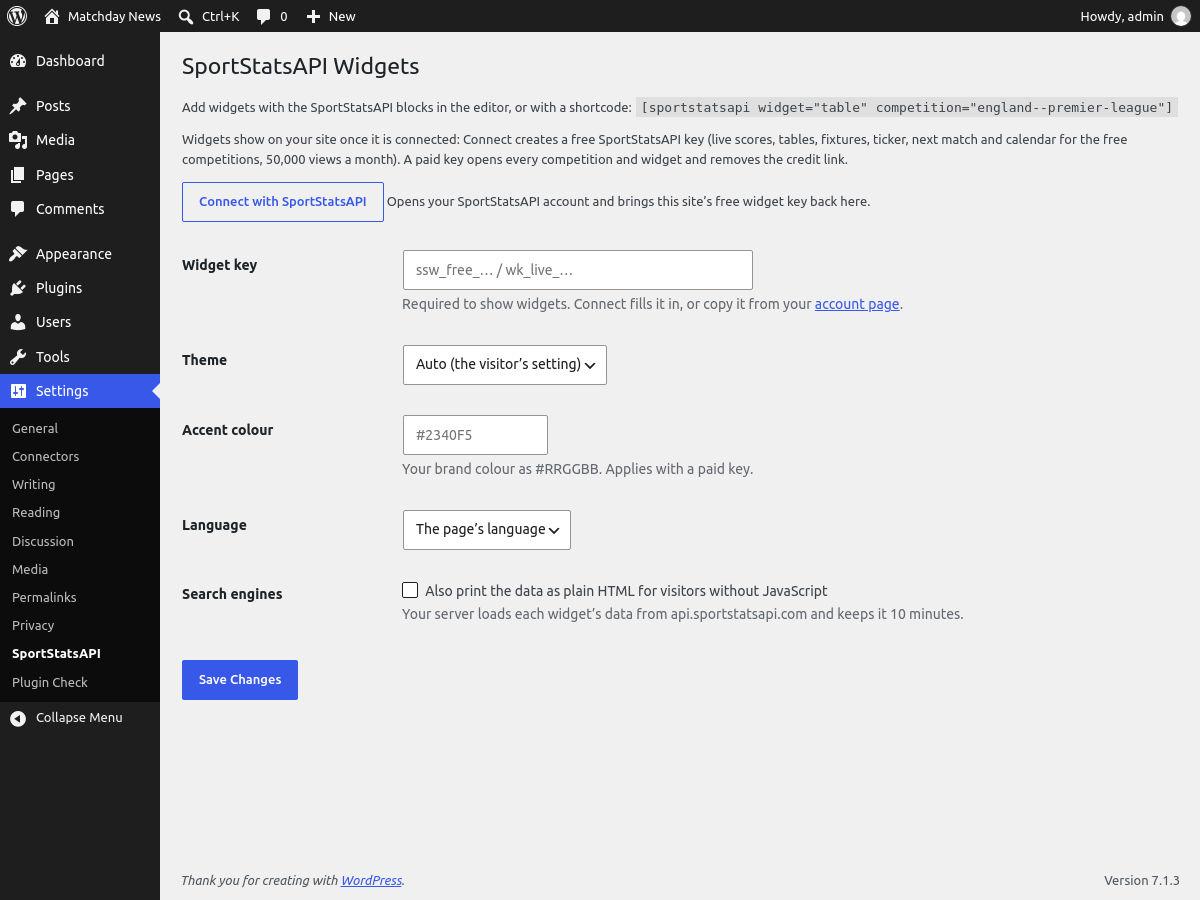
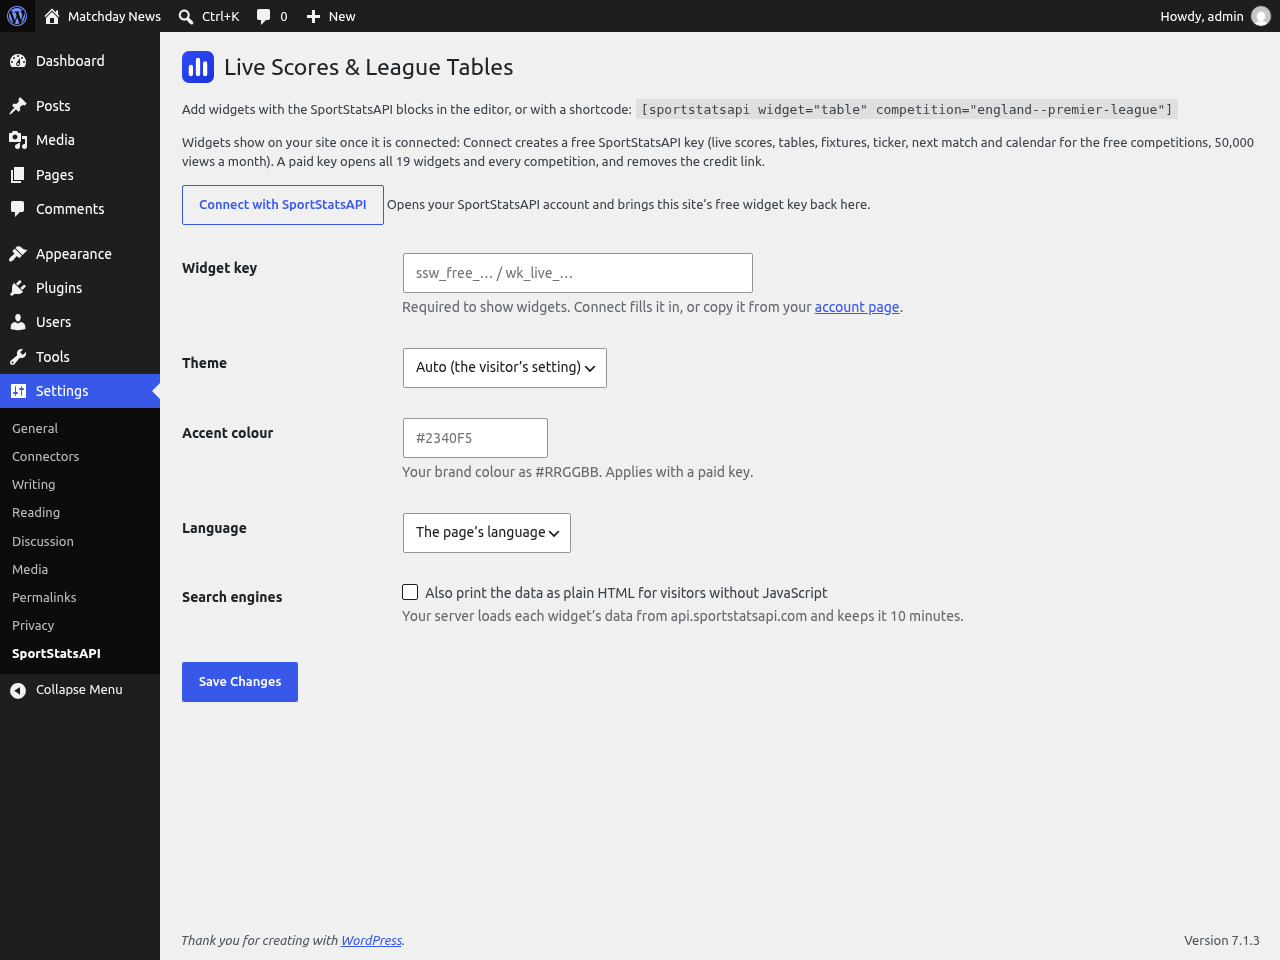
wordpress.org ready: name "Live Scores & League Tables", contributor modulout, free/paid disclosure, build script, Plugin Check clean [skip ci]
- Includes the unmerged last commit of the mvp branch (all 19 widgets, inserter group, designer assets).
- readme.txt: Contributors modulout, brand out of the title, "Free and paid" section, FAQ, External services (editor preview, refused key, Connect sign-in).
- Plugin and settings heading renamed; POT regenerated; internal name out of a code comment.
- bin/build-zip.sh builds the release zip from .distignore; no CI needed.
- New settings screenshot (Playground, 1280x960).

diff --git a/includes/settings.php b/includes/settings.php
@@ -238,7 +238,7 @@ function sportstatsapi_settings_page() {
 	);
 	?>
 	<div class="wrap">
-		<h1 style="display:flex;align-items:center;gap:10px"><img src="<?php echo esc_url( SPORTSTATSAPI_URL . 'assets/icon.svg' ); ?>" width="32" height="32" alt="" style="border-radius:7px"> <?php esc_html_e( 'SportStatsAPI Widgets', 'live-scores-league-tables' ); ?></h1>
+		<h1 style="display:flex;align-items:center;gap:10px"><img src="<?php echo esc_url( SPORTSTATSAPI_URL . 'assets/icon.svg' ); ?>" width="32" height="32" alt="" style="border-radius:7px"> <?php esc_html_e( 'Live Scores & League Tables', 'live-scores-league-tables' ); ?></h1>
 		<?php if ( 'connected' === $result ) : ?>
 			<div class="notice notice-success"><p><?php esc_html_e( 'Connected: your widget key is saved.', 'live-scores-league-tables' ); ?></p></div>
 		<?php elseif ( 'denied' === $result ) : ?>

diff --git a/live-scores-league-tables.php b/live-scores-league-tables.php
@@ -1,6 +1,6 @@
 <?php
 /**
- * Plugin Name:       Live Scores & League Tables – SportStatsAPI Widgets
+ * Plugin Name:       Live Scores & League Tables
  * Plugin URI:        https://sportstatsapi.com/widgets/
  * Description:       Live scores, league tables, fixtures, a results ticker, next match and team calendar widgets from SportStatsAPI, as blocks and shortcodes.
  * Version:           0.1.0

diff --git a/includes/widgets.php b/includes/widgets.php
@@ -8,7 +8,7 @@
 defined( 'ABSPATH' ) || exit;
 
 /**
- * The widgets, free ones first (GoalGate's 19 widget kinds). Paid ones need a
+ * The widgets, free ones first (the service's 19 widget kinds). Paid ones need a
  * paid plan key; the match widgets take a team (its live, next or last match) or
  * a match code.
  *

diff --git a/README.md b/README.md
@@ -1,4 +1,4 @@
-# SportStatsAPI Widgets for WordPress
+# Live Scores & League Tables (SportStatsAPI widgets for WordPress)
 
 Gutenberg blocks and shortcodes for the [SportStatsAPI](https://sportstatsapi.com/widgets/)
 embeddable widgets: league tables, live scores, fixtures, results ticker, next match, team calendar, team form.
@@ -14,5 +14,29 @@ composer lint   # PHPCS, WordPress coding standards
 ```
 
 No JS build step: the editor script is plain `wp.element`.
+
+## Release (no CI needed)
+
+```
+bin/build-zip.sh   # build/live-scores-league-tables.zip, plugin files only (.distignore)
+```
+
+No GitHub Actions workflow is used or required. `.wordpress-org/` holds the
+wordpress.org assets (banners, icons, screenshots); they go to SVN `/assets`,
+never into the zip.
+
+First submission (wordpress.org account `modulout`): upload the zip at
+https://wordpress.org/plugins/developers/add/ (expected slug
+`live-scores-league-tables`, from the plugin name). After approval, with the SVN
+credentials of that account:
+
+```
+svn co https://plugins.svn.wordpress.org/live-scores-league-tables svn
+rsync -a --delete build/live-scores-league-tables/ svn/trunk/
+rsync -a --delete .wordpress-org/ svn/assets/ --exclude README.txt
+cd svn && svn add --force trunk assets && svn cp trunk tags/0.1.0
+svn propset svn:mime-type image/png assets/*.png && svn propset svn:mime-type image/svg+xml assets/*.svg
+svn ci -m "0.1.0" --username modulout
+```
 
 License: GPL-2.0-or-later.

diff --git a/PLAN.md b/PLAN.md
@@ -112,8 +112,8 @@ Audit: `free_widget_key.create` with `via: wordpress` and the site host.
 - [x] Text domain = slug; `load_plugin_textdomain` not needed (WP 4.6+ loads it)
 - [x] uninstall.php removes options and transients
 - [x] Plugin Check plugin: no errors (on the .distignore'd build)
-- [ ] Banner and icon in `.wordpress-org/` (designer)
-- [ ] Slug check: `live-scores-league-tables` free on wordpress.org
+- [x] Banner and icon in `.wordpress-org/` (designer)
+- [x] Slug check: `live-scores-league-tables` not taken on wordpress.org (2026-10-17); name "Live Scores & League Tables", account `modulout`
 - [x] Screenshots 1200x900 in `.wordpress-org/` (made from the test site)
 - [ ] Submit, answer the review (usually 1–4 weeks), then SVN deploy (GitHub Action later)
 
